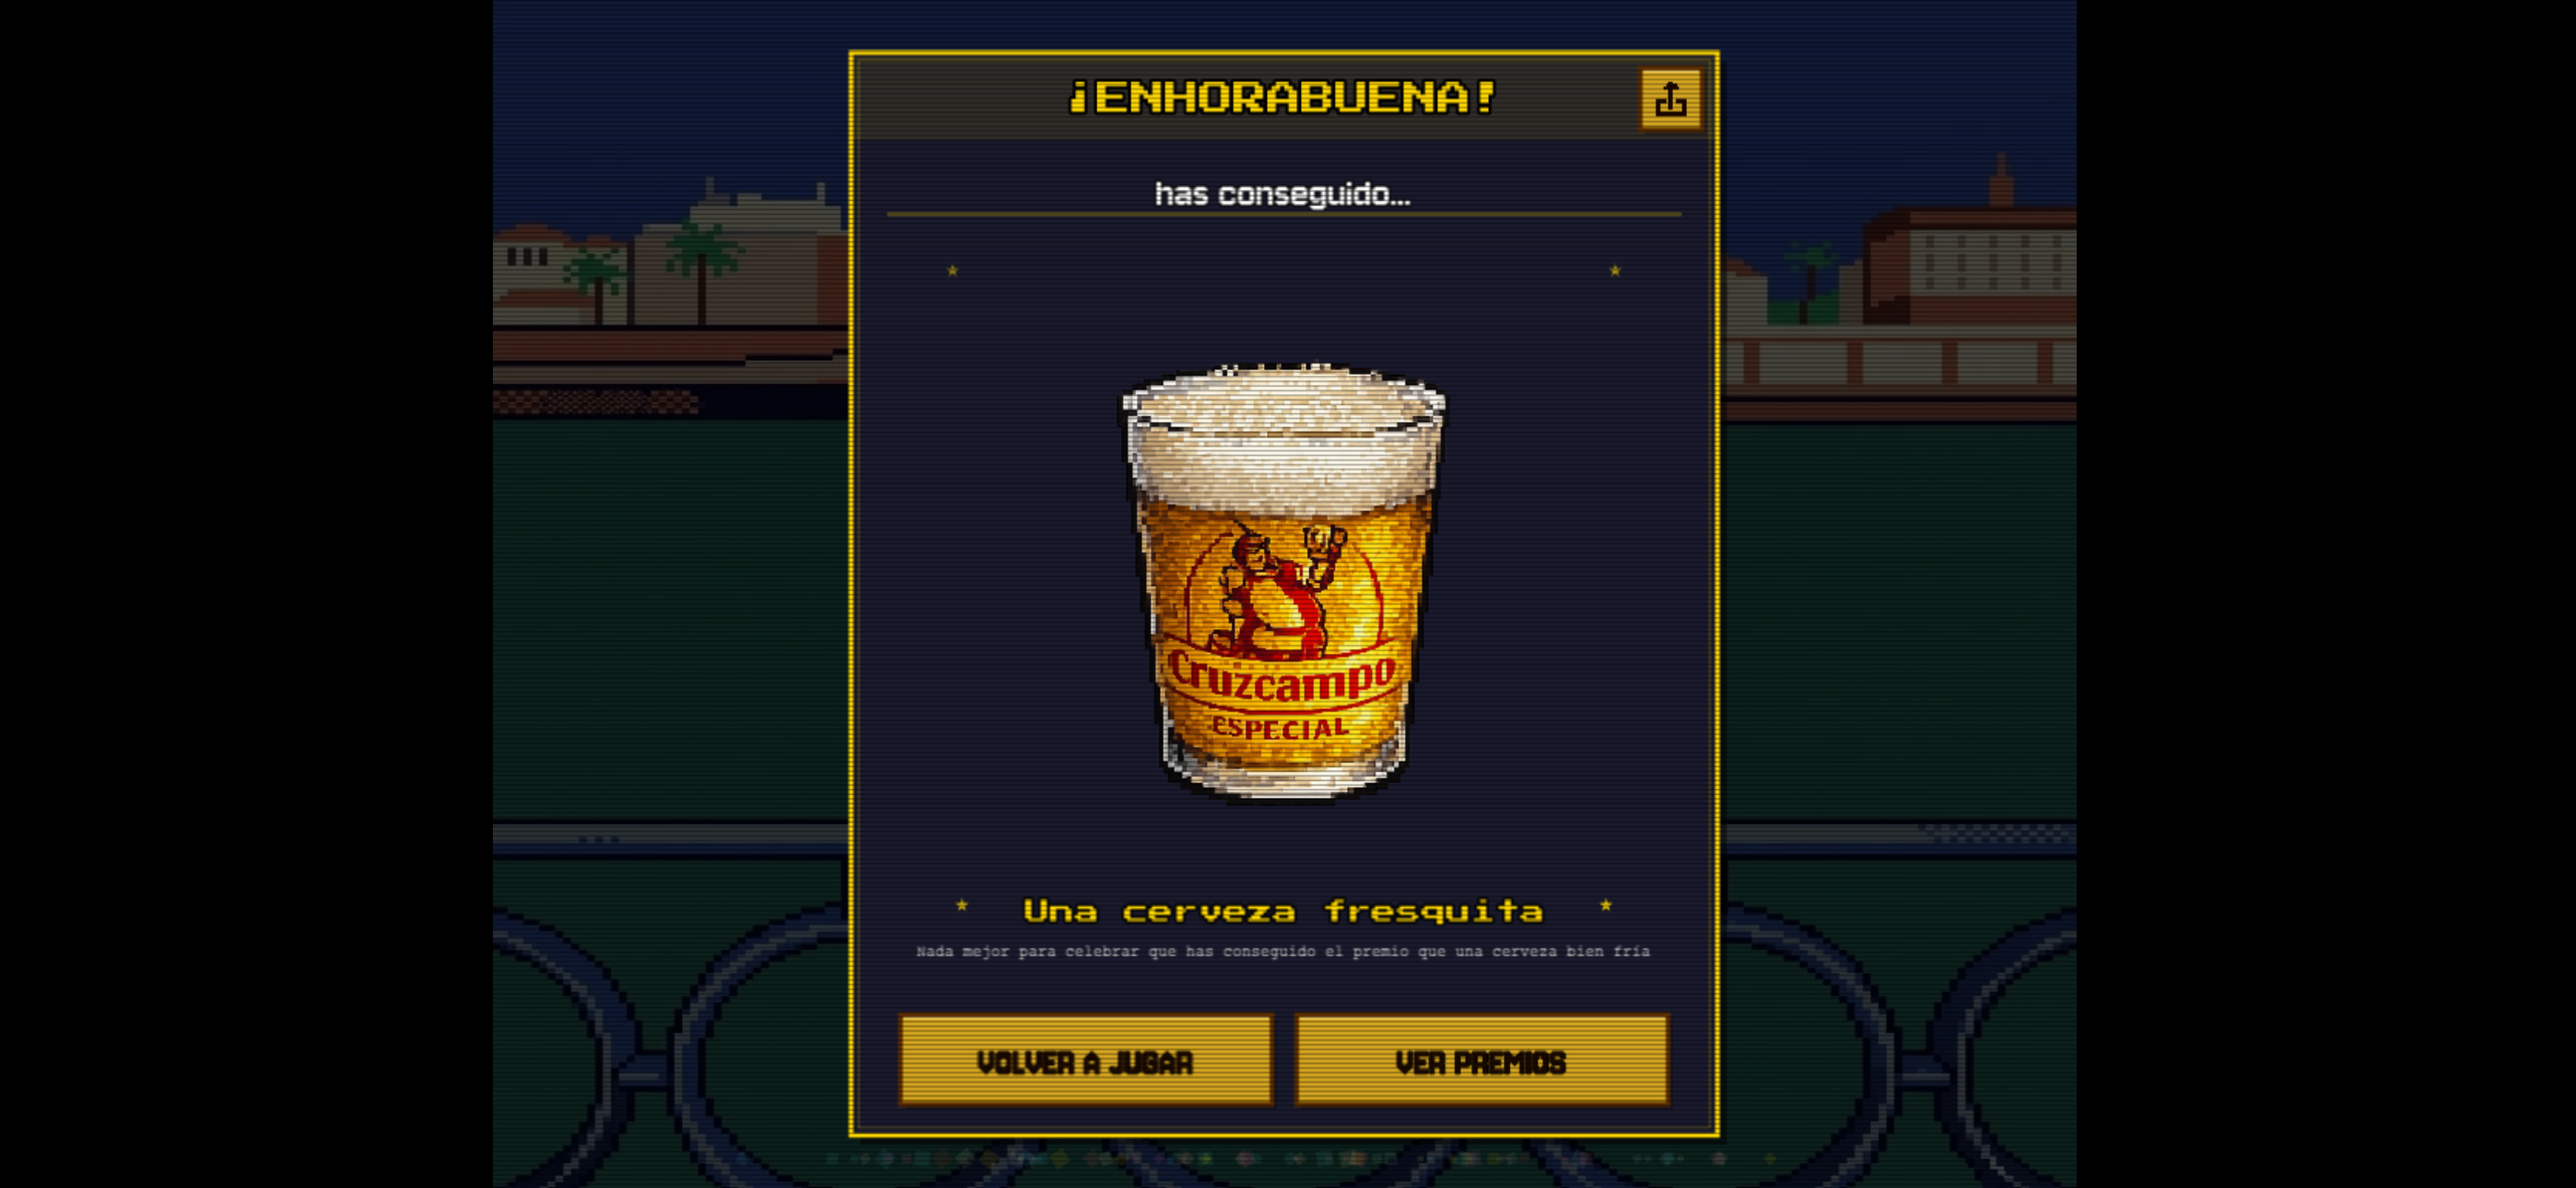
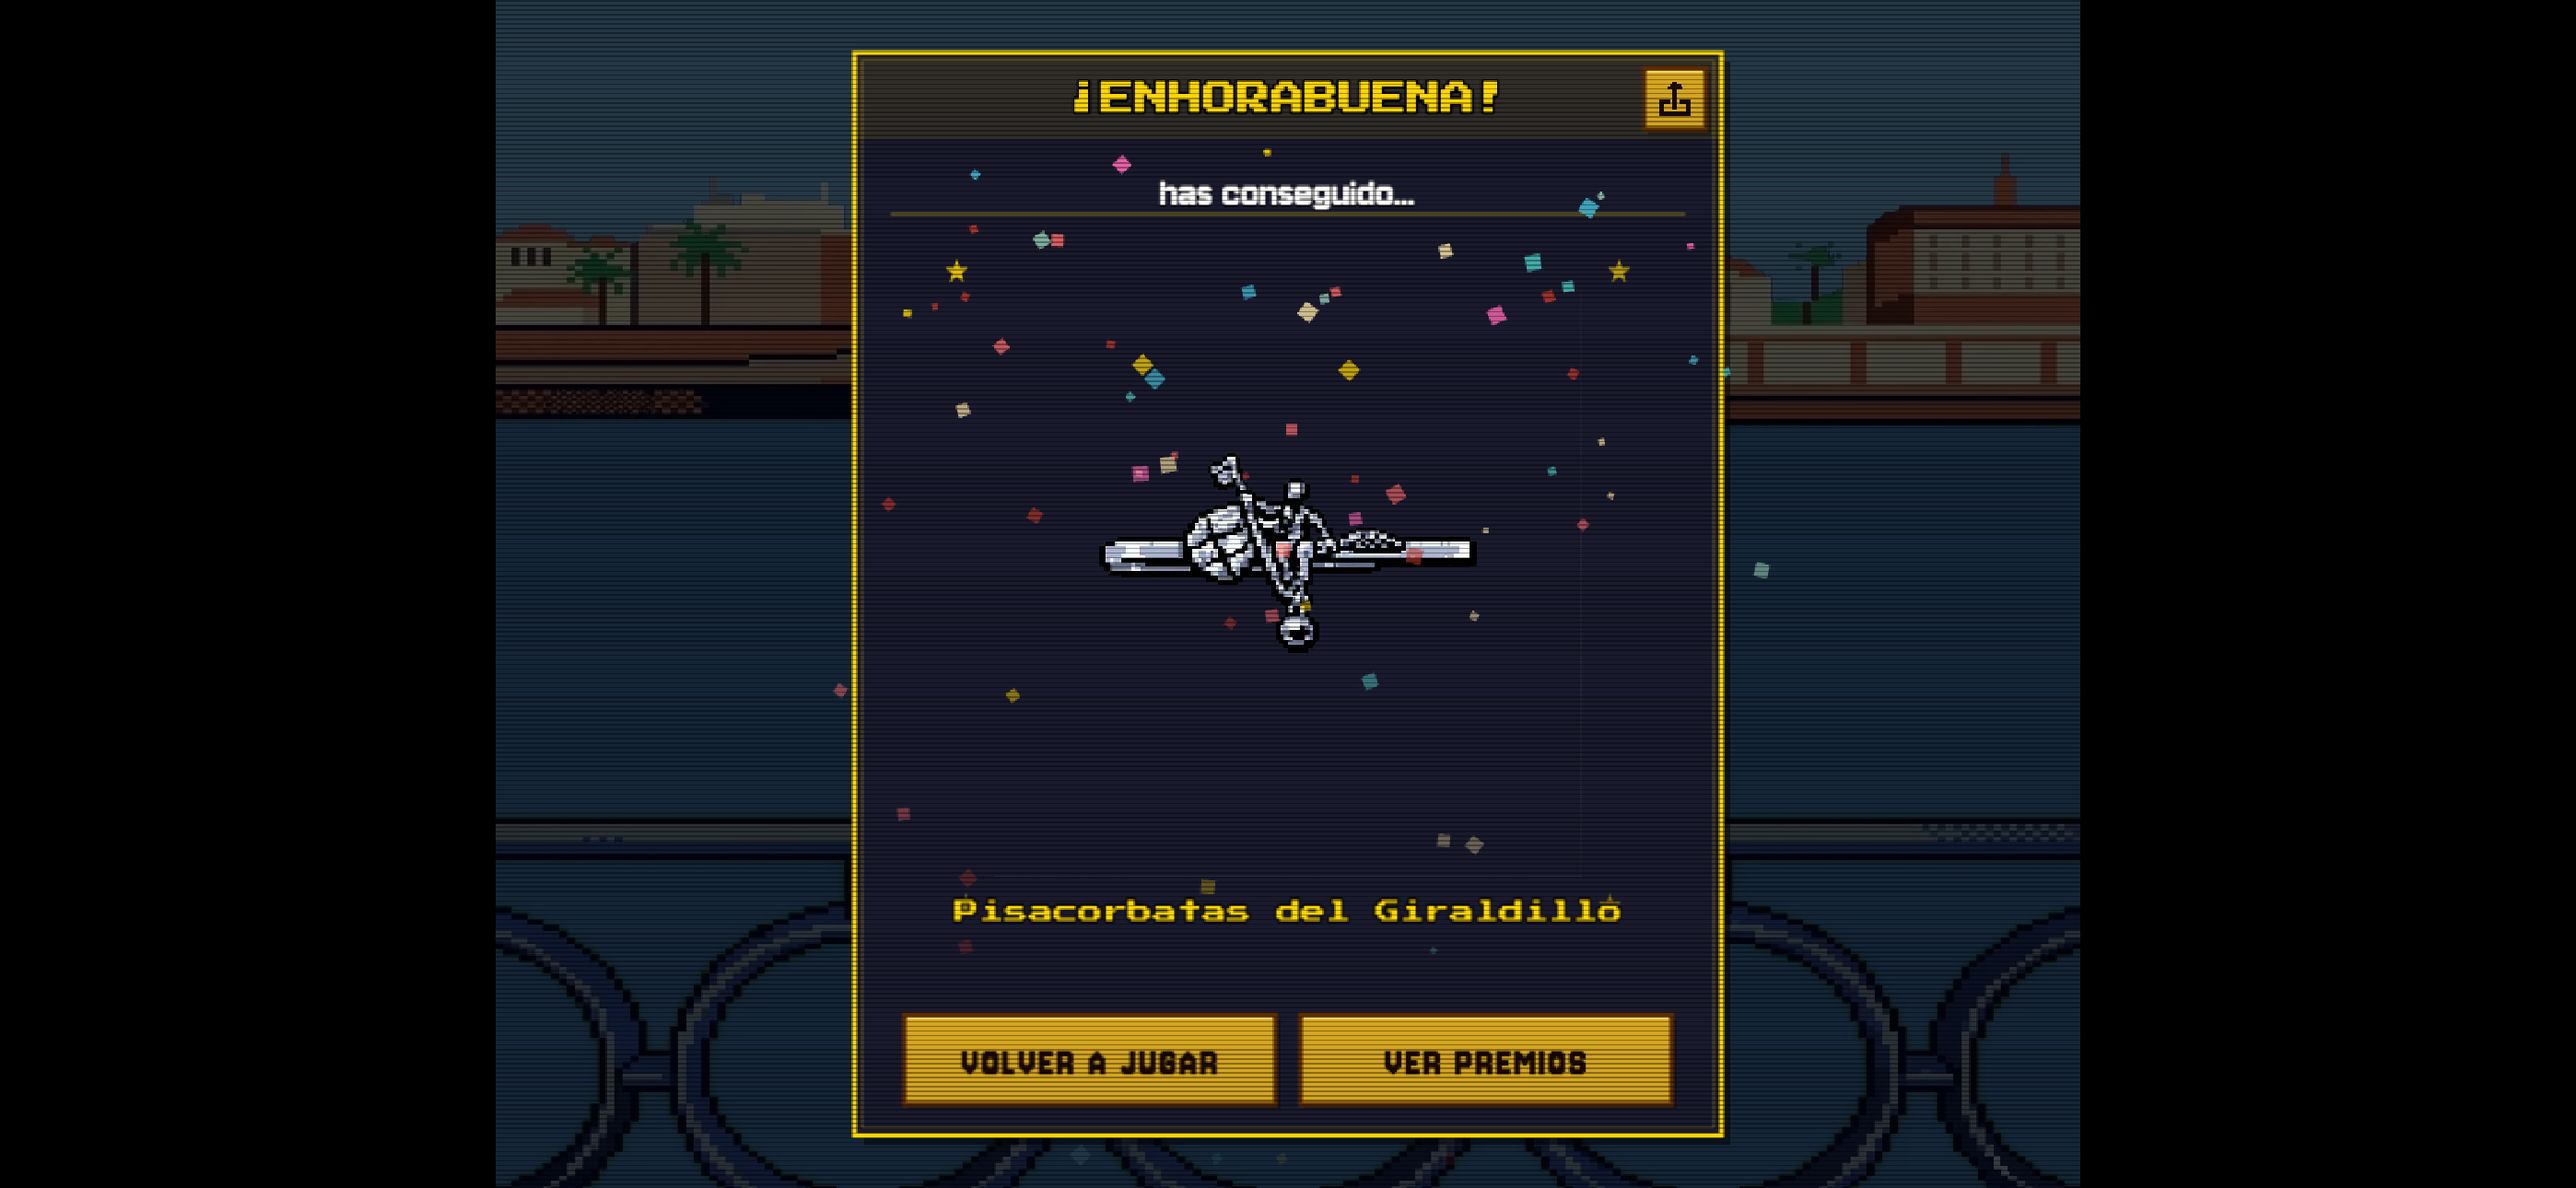
chore(assets): refresh tutorial + store screenshots for App Store submit
Ship 1.5.2 with three App Store readiness deliverables:

- Tutorial images (public/assets/tutorial/01-06.webp) recaptured from
  the current v1.5.1 game state. Menu tile now shows the INFO button
  and v1.5.1 label. Gameplay tiles use the actual 2D HUD (grease
  indicator, NavButton style, red/blue balance buttons, updated
  balance bar). Directional arrows preserved on the same three tiles
  (impulso → cursor of the INTENTO bar; equilibrio → red/blue
  buttons; grasa → GRASA indicator). Same dimensions and WebP format
  so TutorialScene keeps loading them under tut-01…tut-06 without
  code changes.
- Store screenshots (public/assets/store/screenshots/{iphone-6.7,
  ipad-13,play-pwa}) fully replaced. New storyboard: 01-intro
  (menu), 02-juego (3D impulse), 03-seleccion (La Agüela solo,
  vecinos con alcohol ocultados por alpha), 04-premio (Pisacorbatas
  del Giraldillo — no brand risk), 05-equilibrio (3D balance).
  Sizes per platform: iPhone 6.7"/6.9" 2796x1290, iPad 13"
  2752x2064, Play/PWA 1920x1080. Old 05-tutorial.png removed in
  favour of 05-equilibrio.png.
- docs/app-store-privacy-checklist.md — answer sheet for the App
  Store Connect App Privacy section. Documents the Privacy Policy
  URL, the Diagnostics categories to declare (Crash Data + Other
  Diagnostic Data driven by Sentry), the App Functionality purpose,
  and why the app ends up as "Data Not Linked to You / No tracking".

CACHE_NAME bumped to cucana-v1.5.2 so returning web clients pull
[…]

diff --git a/public/sw.js b/public/sw.js
@@ -1,4 +1,4 @@
-const CACHE_NAME = 'cucana-v1.5.1'
+const CACHE_NAME = 'cucana-v1.5.2'
 
 const PRECACHE_URLS = [
   '/',

diff --git a/docs/app-store-privacy-checklist.md b/docs/app-store-privacy-checklist.md
@@ -1,0 +1,105 @@
+# App Privacy — hoja de respuestas para App Store Connect
+
+Documento operativo para rellenar la sección **App Privacy** de La Cucaña
+Trianera en App Store Connect. Basado en el estado del código a la 1.5.1 y en
+`PRIVACY.md`.
+
+Última revisión: 2026-07-09 (v1.5.1).
+
+## Dónde
+
+App Store Connect → tu app → sidebar **App Information → App Privacy** →
+**Get Started / Manage**.
+
+## Privacy Policy URL
+
+```
+https://minijuego-lilac.vercel.app/privacy.html
+```
+
+## Data Collection
+
+Pregunta inicial: **"Do you or your third-party partners collect data from
+this app?"** → **YES**.
+
+Motivo: Sentry envía crash reports a `sentry.io` cuando ocurre un error. Aunque
+no recoge datos personales identificables, "collect" en la definición de Apple
+incluye cualquier transmisión de datos a un servidor externo.
+
+### Categorías a MARCAR
+
+| Categoría | Subtipo | Marcar |
+|---|---|---|
+| Diagnostics | Crash Data | ✅ |
+| Diagnostics | Other Diagnostic Data | ✅ |
+
+### Todas las demás — NO marcar
+
+Contact Info · Health & Fitness · Financial Info · Location · Sensitive Info ·
+Contacts · User Content · Browsing History · Search History · Identifiers ·
+Purchases · Usage Data · Diagnostics → Performance Data · Other Data.
+
+## Detalle de cada tipo marcado
+
+Aplicar las **mismas 3 respuestas** a **Crash Data** y a **Other Diagnostic
+Data**:
+
+### 1. How is this data used? (Purposes)
+
+Marcar SOLO:
+
+- ✅ **App Functionality**
+
+NO marcar: Analytics · Developer's Advertising or Marketing · Third-Party
+Advertising · Product Personalization · Other Purposes.
+
+### 2. Is this data linked to the user's identity?
+
+- ✅ **No, [...] is not linked to the user's identity**
+
+Motivo: no hay login, ni user ID, ni email, ni identificador de dispositivo
+transmitido. La IP se procesa solo para anti-abuso y Sentry no la almacena de
+forma vinculable.
+
+### 3. Do you or your third-party partners use this data for tracking?
+
+- ✅ **No, we do not use this data for tracking purposes**
+
+Motivo: no se combina con datos de otras apps ni se comparte con data brokers.
+
+## Publish
+
+Guardar y publicar. Puedes editarlo tantas veces como quieras hasta enviar el
+binario a revisión (y también después, con submit nuevo).
+
+## Resultado en la ficha pública
+
+La sección "App Privacy" de la ficha mostrará:
+
+> **Data Not Linked to You**
+> The following data may be collected but it is not linked to your identity:
+> - Diagnostics
+
+## Coherencia con PRIVACY.md
+
+`PRIVACY.md` sección 2 dice "no recoge datos personales identificables" →
+coincide con **Not Linked to You**.
+
+`PRIVACY.md` sección 4.1 detalla que Sentry recibe stack trace + user agent +
+versión + escena + IP no identificable → coincide con **Crash Data + Other
+Diagnostic Data · App Functionality · No linked · No tracking**.
+
+Si Apple revisa ambos, no hay contradicciones.
+
+## Si cambia el código en el futuro
+
+Antes de un nuevo submit revisar:
+
+- ¿Se ha añadido analytics (Google Analytics, Firebase, Amplitude)? → añadir
+  **Usage Data → Product Interaction** y purpose **Analytics**.
+- ¿Se ha añadido login/cuenta? → añadir **Contact Info** y **Identifiers**.
+- ¿Se ha añadido publicidad? → añadir **Usage Data → Advertising Data** con
+  purpose **Third-Party Advertising**.
+- ¿Se ha añadido compartir ubicación? → añadir **Location**.
+
+Nada de esto está previsto ahora mismo.

diff --git a/CHANGELOG.md b/CHANGELOG.md
@@ -7,6 +7,17 @@ y el proyecto se adhiere a [Versionado Semántico](https://semver.org/lang/es/).
 
 ## [Unreleased]
 
+## [1.5.2] — 2026-07-09
+
+### Added
+
+- **`docs/app-store-privacy-checklist.md`:** hoja de respuestas operativa para rellenar la sección **App Privacy** de App Store Connect. Documenta la Privacy Policy URL, qué categorías marcar (**Diagnostics → Crash Data** y **Other Diagnostic Data** por Sentry), qué purposes elegir (**App Functionality**) y por qué la app queda como "Data Not Linked to You / No tracking". Sirve de guía cuando se rellene el formulario en App Store Connect sin tener que redescubrir las respuestas cada vez.
+
+### Changed
+
+- **Imágenes del tutorial refrescadas con el estado actual de la 1.5.1** (`public/assets/tutorial/01-bienvenido.webp` … `06-listo.webp`): capturas nuevas del propio juego renderizado que muestran los componentes actuales — menú con botón INFO y versión 1.5.1, HUD de grasa con el nuevo look, botones NavButton estilo Cartelón de Feria, sprite del Trianero en el palo, botones rojo/azul de equilibrio y barra de balance actualizada. Las flechas indicativas se han redibujado sobre las nuevas capturas: **02-impulso** apunta al cursor de la barra INTENTO, **03-equilibrio** a los botones rojo (izq) y azul (der), **04-grasa** al indicador de grasa en la esquina superior izquierda. **01-bienvenido**, **05-salto** y **06-listo** no llevan flecha (igual que las originales). Dimensiones y formato conservados: 642×487 WebP para 01-05, 522×397 WebP para 06, así que ni el layout de `TutorialScene` ni el pipeline de assets necesitan cambios.
+- **Assets de tienda refrescados con la 1.5.1** (`public/assets/store/screenshots/`): capturas nuevas de la vista 3D (fase impulso y equilibrio) sustituyen a las de 1.0.0 pre-vista-3D. La selección de personaje muestra sólo el personaje central (La Agüela) para evitar los retratos con alcohol de los personajes vecinos. La pantalla de premio se genera con "Pisacorbatas del Giraldillo" en vez del vaso de Cruzcampo, para eliminar marcas comerciales/alcohol de la ficha de tienda (App Store Guideline 5.2 y clasificación 4+). Storyboard final por plataforma (5 tiles): `01-intro`, `02-juego` (3D impulso), `03-seleccion` (La Agüela), `04-premio` (Giraldillo), `05-equilibrio` (3D balance). Sets generados: iPhone 6.7"/6.9" a **2796×1290**, iPad 13" a **2752×2064**, Play/PWA a **1920×1080**. **Ojo:** el juego en sí todavía contiene retratos con alcohol (El Trianero, La Flamenca, El Guiri, Cuñaos) y premios con IP protegida (Cruzcampo, Cantores de Híspalis, Sugus, Maradona, Larry, etc.) — habrá que rediseñarlos antes del submit real.
+
 ## [1.5.1] — 2026-07-09
 
 ### Added
